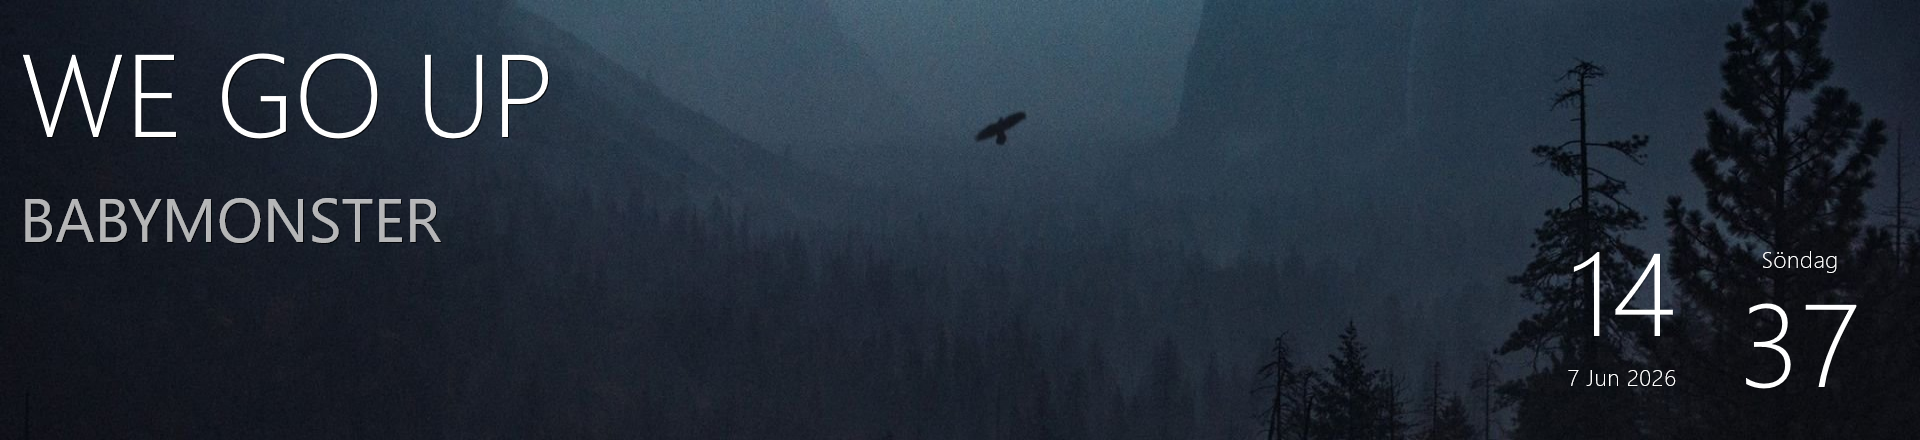
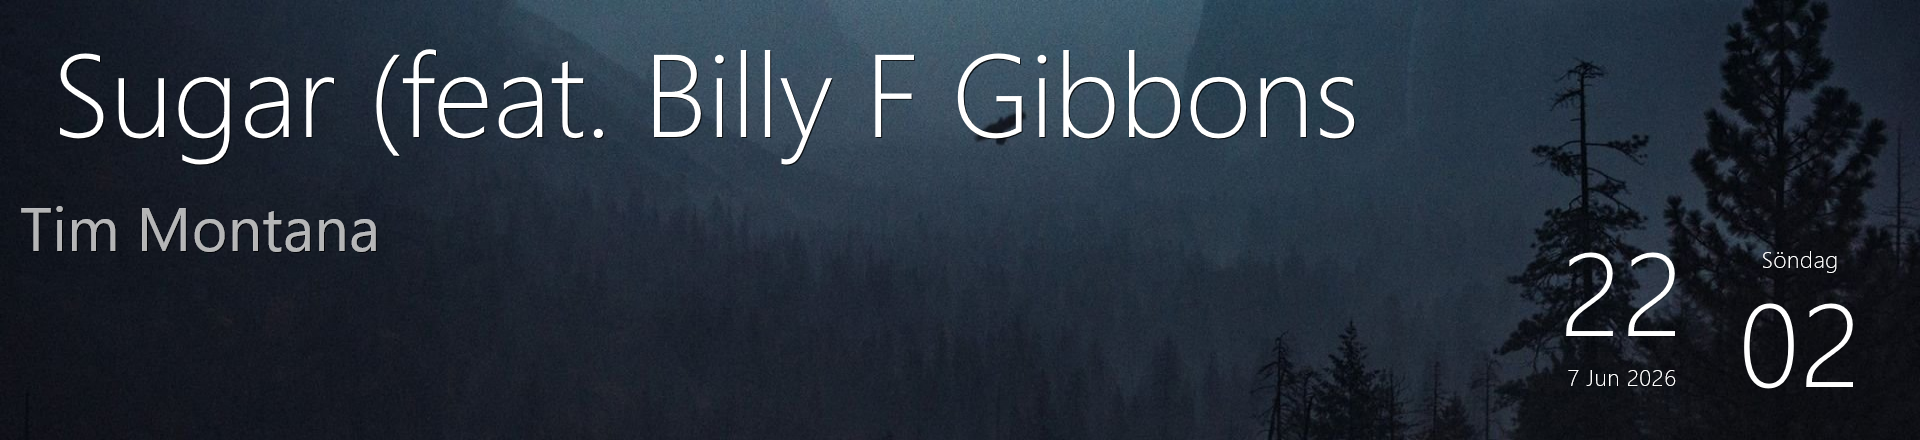
Scrolling (marquee) title for long tracks
- TidalNowPlaying: long titles now scroll horizontally via marquee.lua
  (replaces the "..." truncation); short titles stay static
- scroll speed slowed via UpdateDivider on [MeasureScroll]
- add marquee.lua
- README: "wrap" wording -> "scroll", corner-layout note
- refresh banner screenshot

diff --git a/README.md b/README.md
@@ -4,8 +4,8 @@
 
 Rainmeter setup for an ultrawide **"bar" secondary monitor** (e.g. 1920×440):
 
-- 🕐 A centered **Typography clock**
-- 🎵 A live **TIDAL "now playing"** widget — title + artist, updated in real time, with long titles wrapping onto multiple lines
+- 🕐 A **Typography clock** (Swedish weekday/date)
+- 🎵 A live **TIDAL "now playing"** widget — title + artist, updated in real time, with long titles **scrolling sideways (marquee)**
 
 The TIDAL widget reads **Windows System Media Transport Controls (SMTC)** — the same now-playing info shown in the Windows media popup — so it follows **TIDAL** (desktop app or browser), and in fact almost any media app.
 
@@ -28,7 +28,7 @@ The installer:
 - installs the background reader to `%LOCALAPPDATA%\TidalNowPlaying` and **fixes the path for the current user**
 - adds the reader to **Startup** (auto-start at logon) and starts it now
 - turns the **taskbar off on the secondary display**
-- loads and **positions** the clock (centered) and the TIDAL widget on the bar
+- loads and **positions** the now-playing (top-left) and the clock (bottom-right) on the bar
 - sets a wallpaper on the bar **if** you place a `wallpaper.jpg` next to `INSTALL.cmd`
 
 Then just play a track in TIDAL. `README.txt` has the same steps in Swedish.
@@ -38,7 +38,7 @@ Then just play a track in TIDAL. `README.txt` has the same steps in Swedish.
 Edit `Skins\TidalNowPlaying\TidalNowPlaying.ini` (or right-click the skin → *Edit skin*):
 
 - **Colours / fonts / size** — the `[Variables]` block and each meter's `FontSize`.
-- **Width / wrapping** — the title and artist use `ClipString=2`, which wraps long text onto multiple lines. `W=660` sets how wide it gets before wrapping (keep it narrow enough to clear the clock).
+- **Scroll speed** — long titles scroll via `marquee.lua`; raise `UpdateDivider` on `[MeasureScroll]` to slow it down, or change `#Window#` (number of visible characters).
 - **Position** — drag the skin on the bar, or right-click → *Settings*.
 
 ## Troubleshooting
@@ -70,7 +70,7 @@ Edit `Skins\TidalNowPlaying\TidalNowPlaying.ini` (or right-click the skin → *E
 
 - **Works with more than TIDAL:** because it reads SMTC, it also shows **Spotify, Windows Media Player, browsers** and most media apps. `poll-smtc.ps1` prefers a TIDAL session and otherwise falls back to whatever is currently playing.
 - Album name / cover art often come back empty from TIDAL's app via SMTC, so the widget shows **title + artist**.
-- Long titles **wrap** onto extra lines so nothing is cut off.
+- Long titles **scroll sideways (marquee)** so the whole title can be read; short titles stay still.
 - If a skin lands in the wrong spot, just drag it onto the bar.
 - Moving the clock sideways but it "sticks"? Right-click it → *Settings* → uncheck **Keep on screen** (its window is wider than the bar).
 - No wallpaper is bundled — supply your own.